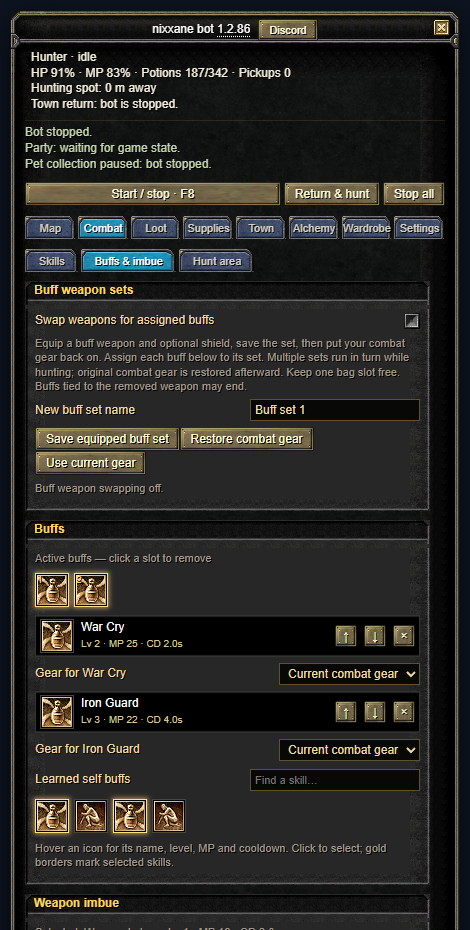
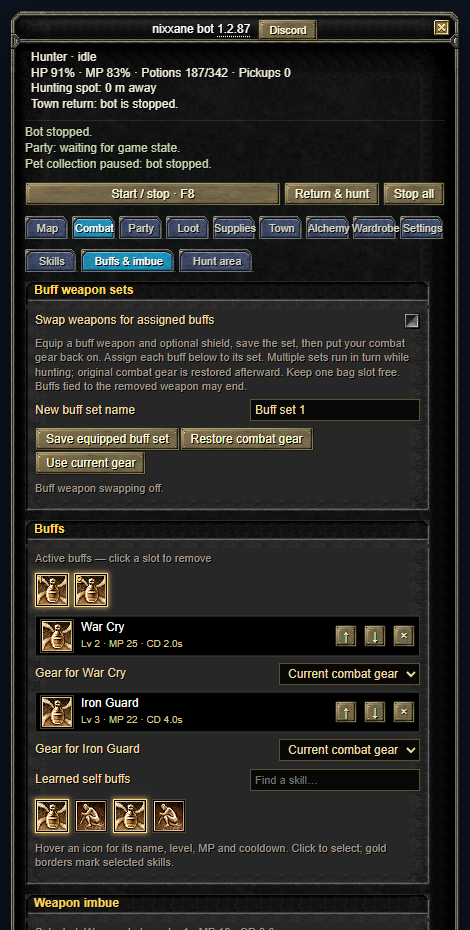
1.2.87 patch notes, Party page in the guide, new screenshots

Changed region(s): [[0.0894, 0.2183, 0.9532, 0.2806]]

diff --git a/guide.html b/guide.html
@@ -102,8 +102,8 @@
     <p>In <strong>Settings → Anti-stuck</strong>. If nothing is killed, gained or picked up for a few minutes, the bot drops its target, then walks back to the hunting spot, and finally stops. It is on by default.</p>
     <img class="shot" src="guide/11-anti-stuck.png" width="470" alt="Settings, Anti-stuck: the recovery switch, the minutes without progress and the number of failed recoveries before stopping.">
     <h3>Party</h3>
-    <p>In <strong>Settings → Party</strong>: auto-recruit and auto-accept party-matching applicants, accept a resurrection from a party member (and resume hunting afterwards), and resurrect fallen party members yourself. All off by default.</p>
-    <img class="shot" src="guide/13-party.png" width="470" alt="Settings, Party: auto-recruit, listing settings, auto-accept joins, accept resurrection and auto-resurrect.">
+    <p>On the <strong>Party</strong> page, tick <strong>Buff and heal party members</strong> to support your party with your own skills: a group heal when enough members are low, a heal on the lowest member, then party buffs on whoever is missing them (each buff can be limited to named members). It only casts on members in view within the support range and never walks to them. The same page has auto-recruit and auto-accept party-matching applicants, accept a resurrection from a party member (and resume hunting afterwards), and resurrect fallen party members yourself. All off by default.</p>
+    <img class="shot" src="guide/13-party.png" width="470" alt="Party page: the party members, heal and buff settings, party buffs, then auto-recruit, listing settings, auto-accept joins, accept resurrection and auto-resurrect.">
     <h3>Auto mastery and skills</h3>
     <p>Spends skill points for you, one confirmed level at a time: tick the masteries you want and the bot raises them in that order up to your level (minus an optional gap). It can also learn the next level of the skills in your rotations and buffs, and it never spends the reserve you set. Off by default.</p>
     <img class="shot" src="guide/12-mastery.png" width="470" alt="Settings, Auto mastery and skills: the mastery checkboxes, the level gap, the skill upgrade switch, the reserve and the spend order.">

diff --git a/index.html b/index.html
@@ -26,6 +26,17 @@
       <h2 id="patch-notes-title">Patch notes</h2>
       <p class="notes-intro">Install the latest script, then reload the game. Reporting-service fixes apply automatically.</p>
       <article class="release">
+        <h3><a href="https://github.com/nixxane/opensro-bot-lean/commit/164fe4f">1.2.87</a> · Heal and buff your party</h3>
+        <ul>
+          <li>New Party page. Tick "Buff and heal party members" and the bot supports the party with your own skills: a group heal when enough members are low, a heal on the lowest member, then party buffs on whoever does not have them yet. One cast at a time, after your own potions and before attacking.</li>
+          <li>Pick party buffs from your learned skills that can target a party member. Each goes to everyone, or only to the names you list.</li>
+          <li>It only casts on members you can see within the support range (30 m by default) and never walks to them. A buff that does not show up on a member after two tries waits a minute.</li>
+          <li>The top of the page lists your party with HP and MP bars, distance, and which of your buffs each member has.</li>
+          <li>The party options (auto-recruit, matching, resurrection) moved here from Settings.</li>
+        </ul>
+        <p class="release-note">Off by default. It runs while hunting; tick "Also while hunting is stopped" to support a party while you stand still.</p>
+      </article>
+      <article class="release">
         <h3><a href="https://github.com/nixxane/opensro-bot-lean/commit/352001f">1.2.86</a> · Town page and new reasons to go to town</h3>
         <ul>
           <li>New Town page. It shows the trip as a row of pictures (return scroll, warehouse, potions, repair, reverse) with what each step still needs, and everything that starts a trip in one place. The scroll town cycle settings and Arrows and bolts moved here from Supplies.</li>
